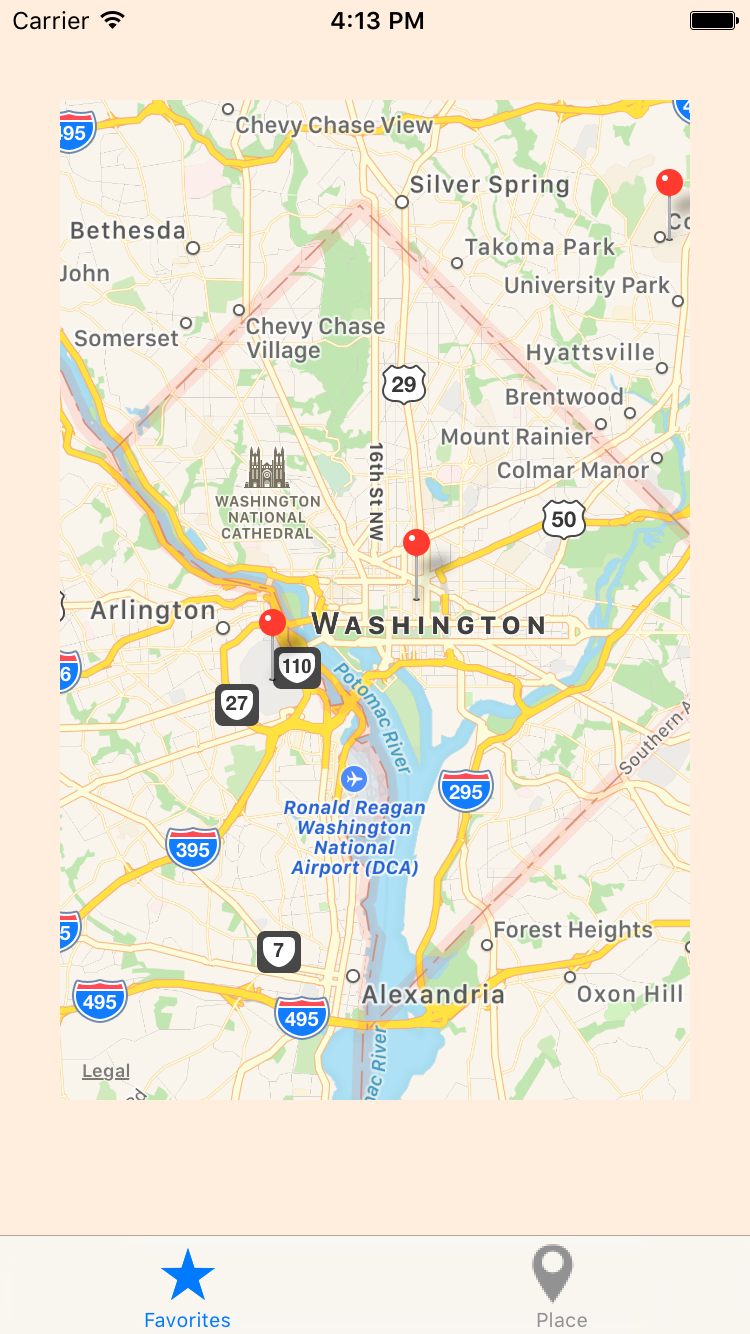
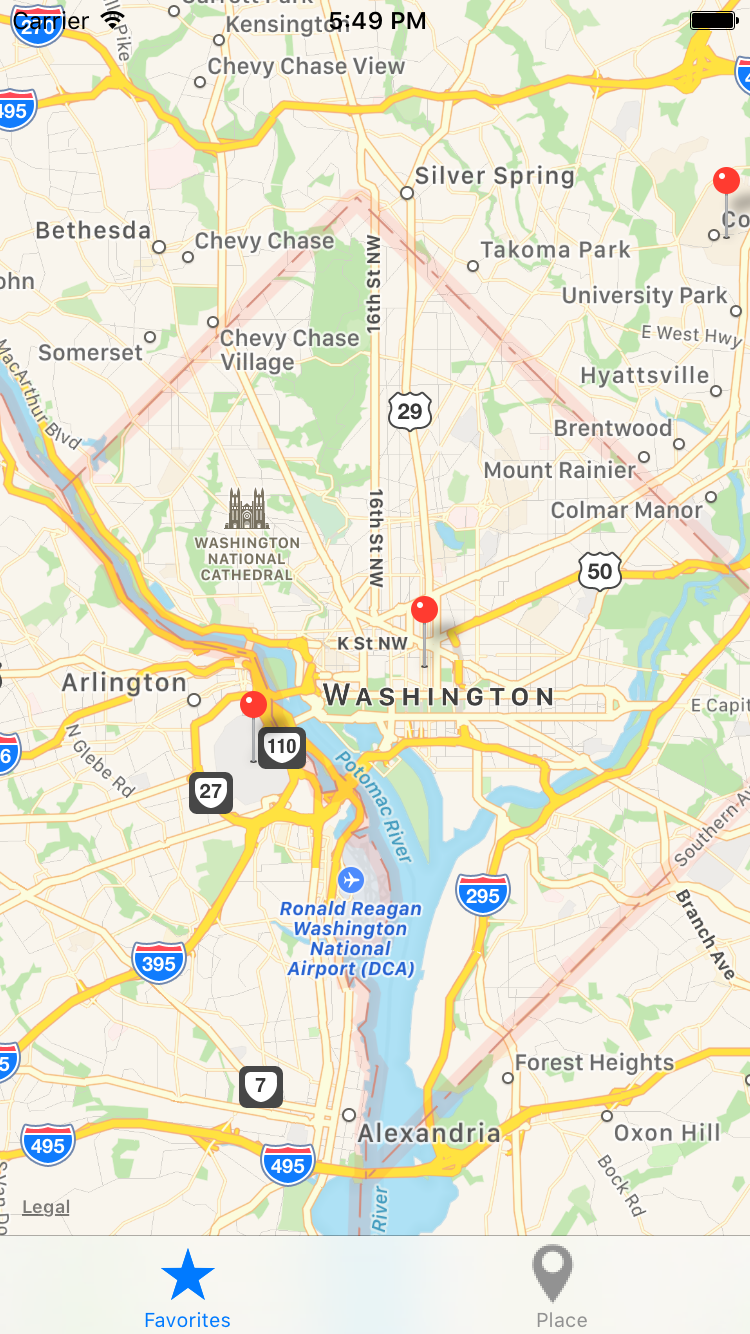
setting mapview to flex.

diff --git a/Places/place_map.js b/Places/place_map.js
@@ -41,27 +41,18 @@ export default class PlaceMap extends Component {
       );
     })
     return (
-      <View style={styles.view}>
-        <MapView
-          style={styles.map}
-          region={this.region}
-          annotations={annotations}
-        />
-      </View>
+      <MapView
+        style={styles.map}
+        region={this.region}
+        annotations={annotations}
+      />
     );
   }
 }
 
 const styles = StyleSheet.create({
-  view: {
-    paddingTop: 50,
-    paddingLeft: 30,
-    paddingRight: 30,
-    backgroundColor: '#fed',
-    flex: 1,
-  },
   map: {
-    height: 500
+    flex: 1
   },
   button: {
     backgroundColor: 'red',
